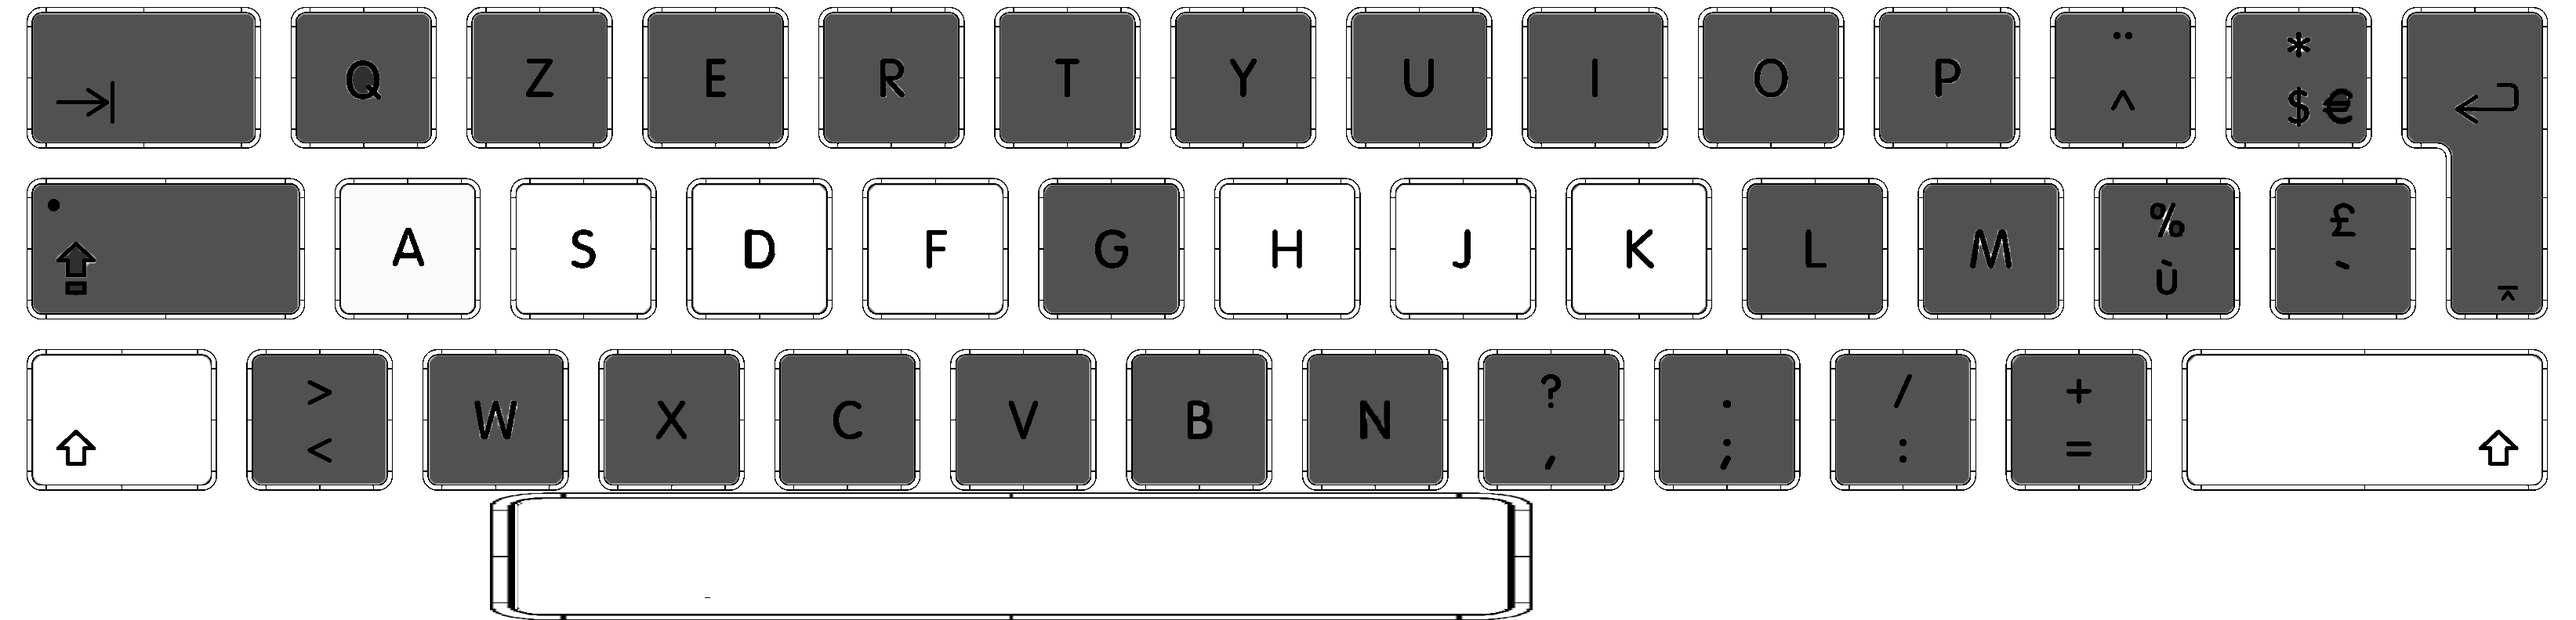
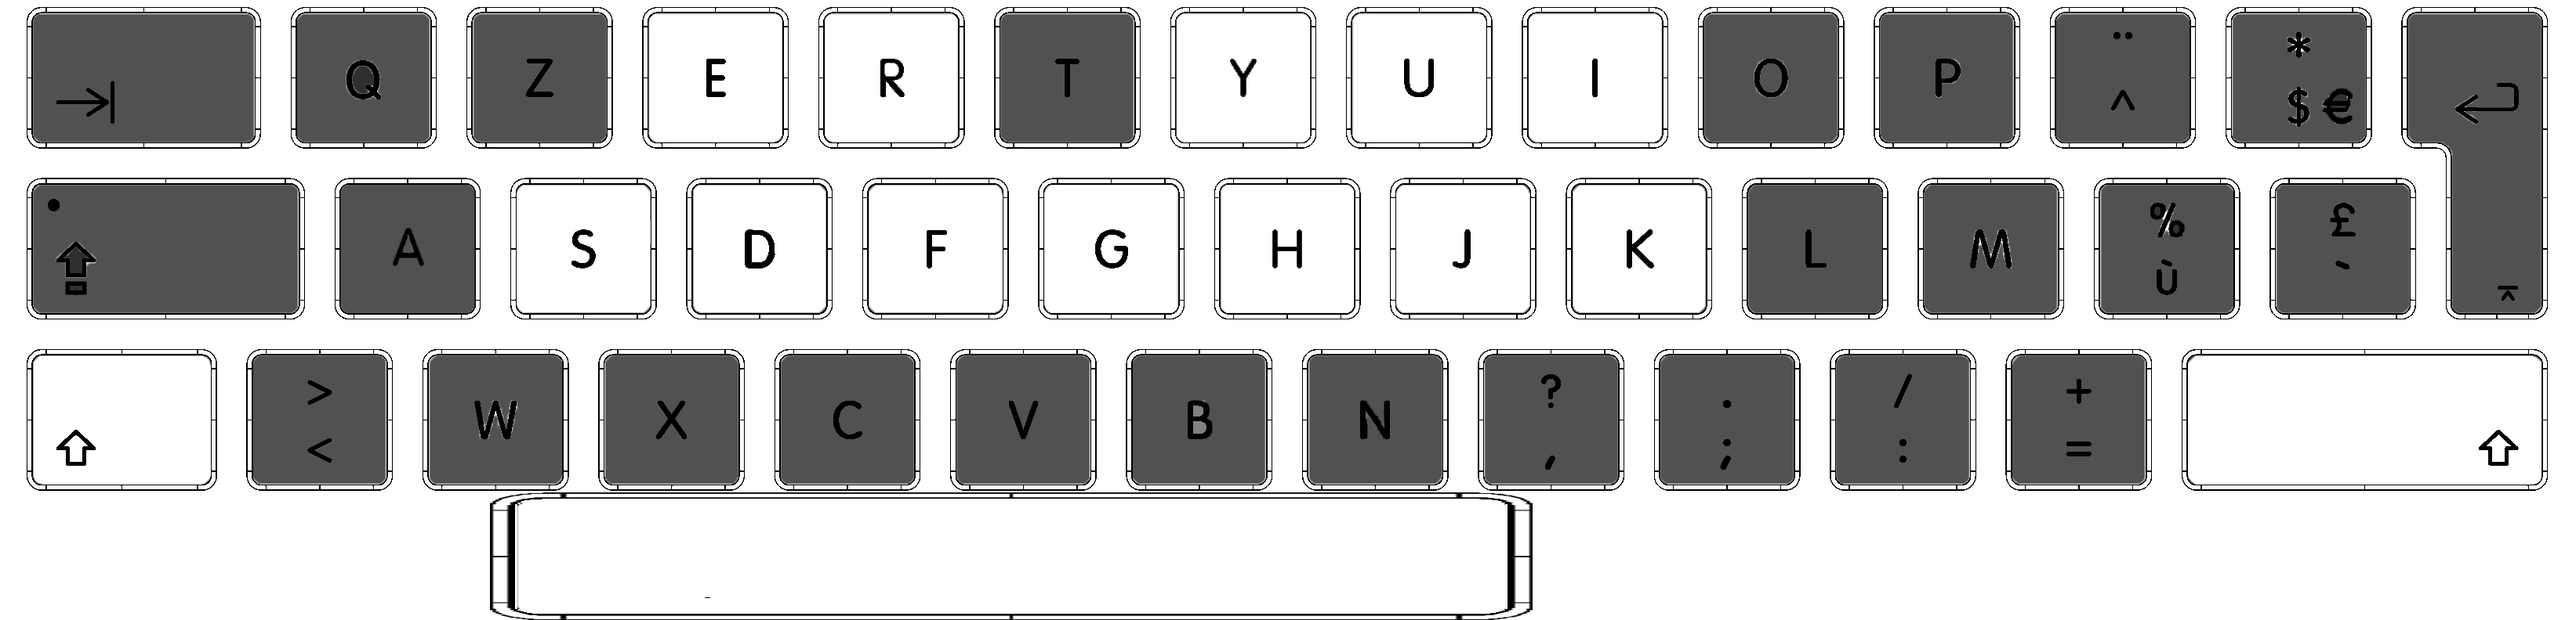
added some tweaks

diff --git a/js/app.js b/js/app.js
@@ -7,68 +7,69 @@ window.addEventListener("load", function() {
     
     //keyClicked function which handles the key clicked on the keyboard and passes the respective notes to other functions
     function keyClicked(event) {        
-        //Clicked A for major C note
-        if (event.keyCode == 65 && !event.shiftKey) {
+        //Clicked S for major C note
+        if (event.keyCode == 83) {
             notePressed("c");
         }
         
-        //Clicked A with Shift for sharp C note
-        if (event.keyCode == 65 && event.shiftKey) {
+        //Clicked E for sharp C note
+        if (event.keyCode == 69) {
             notePressed("cs");
         }
         
-        //Clicked S for major D note
-        if (event.keyCode == 83 && !event.shiftKey) {
+        //Clicked D for major D note
+        if (event.keyCode == 68) {
             notePressed("d");
         }
         
-        //Clicked S with Shift for sharp D note
-        if (event.keyCode == 83 && event.shiftKey) {
+        //Clicked R for sharp D note
+        if (event.keyCode == 82) {
             notePressed("ds");
         }
         
-        //Clicked D for major E note
-        if (event.keyCode == 68 && !event.shiftKey) {
+        //Clicked F for major E note
+        if (event.keyCode == 70) {
             notePressed("e");
         }
         
-        //Clicked F for major F note
-        if (event.keyCode == 70 && !event.shiftKey) {
+        //Clicked G for major F note
+        if (event.keyCode == 71) {
             notePressed("f");
         }
         
-        //Clicked F with Shift for sharp F note
-        if (event.keyCode == 70 && event.shiftKey) {
+        //Clicked Y for sharp F note
+        if (event.keyCode == 89) {
             notePressed("fs");
         }
         
         //Clicked H for major G note
-        if (event.keyCode == 72 && !event.shiftKey) {
+        if (event.keyCode == 72) {
             notePressed("g");
         }
         
-        //Clicked H with Shift for sharp G note
-        if (event.keyCode == 72 && event.shiftKey) {
+        //Clicked U for sharp G note
+        if (event.keyCode == 85) {
             notePressed("gs");
         }
         
         //Clicked J for major A note
-        if (event.keyCode == 74 && !event.shiftKey) {
+        if (event.keyCode == 74) {
             notePressed("a");
         }
         
-        //Clicked J with Shift for sharp A note
-        if (event.keyCode == 74 && event.shiftKey) {
+        //Clicked I for sharp A note
+        if (event.keyCode == 73) {
             notePressed("as");
         }
         
         //Clicked K for major B note
-        if (event.keyCode == 75 && !event.shiftKey) {
+        if (event.keyCode == 75) {
             notePressed("b");
         }
         
         //Clicked Space for rest
         if (event.keyCode == 32) {
+            event.preventDefault();
             notePressed("space");
         }
     }
